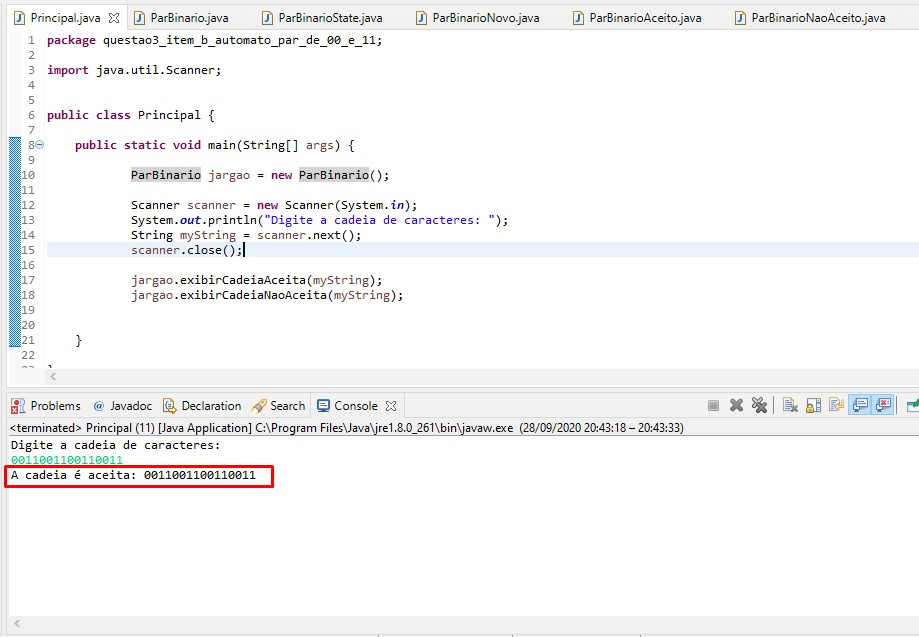
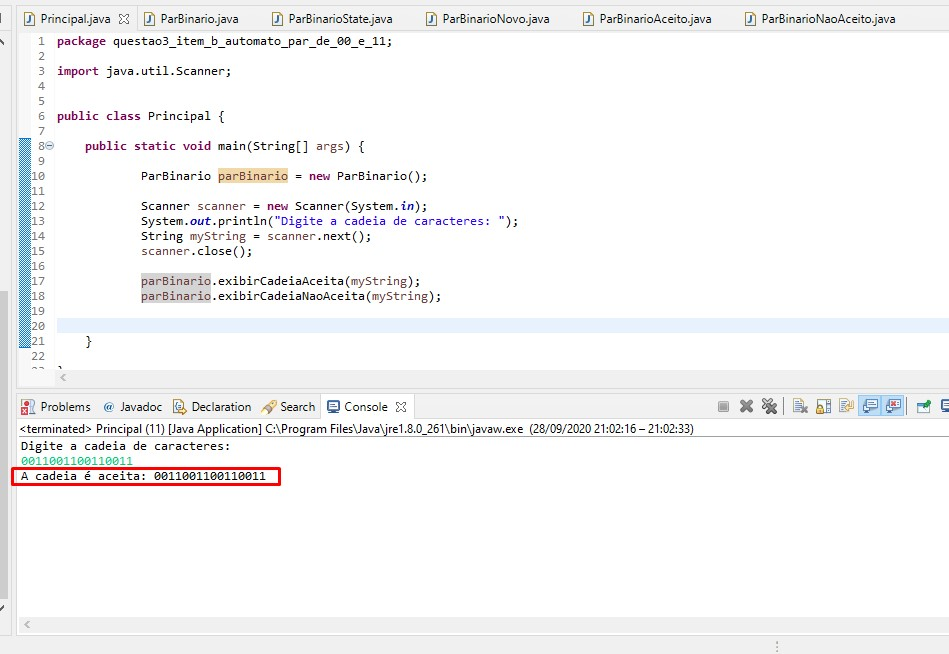
Ajustes Finais

diff --git a/src/questao3_item_b_automato_par_de_00_e_11/Principal.java b/src/questao3_item_b_automato_par_de_00_e_11/Principal.java
@@ -7,15 +7,15 @@ public class Principal {
 
 	public static void main(String[] args) {
 		
-			ParBinario jargao = new ParBinario();
+			ParBinario parBinario = new ParBinario();
 			
 			Scanner scanner = new Scanner(System.in);
 			System.out.println("Digite a cadeia de caracteres: ");
 			String myString = scanner.next();		
 			scanner.close();
 						
-			jargao.exibirCadeiaAceita(myString);
-			jargao.exibirCadeiaNaoAceita(myString);
+			parBinario.exibirCadeiaAceita(myString);
+			parBinario.exibirCadeiaNaoAceita(myString);
 		
 
 	}
